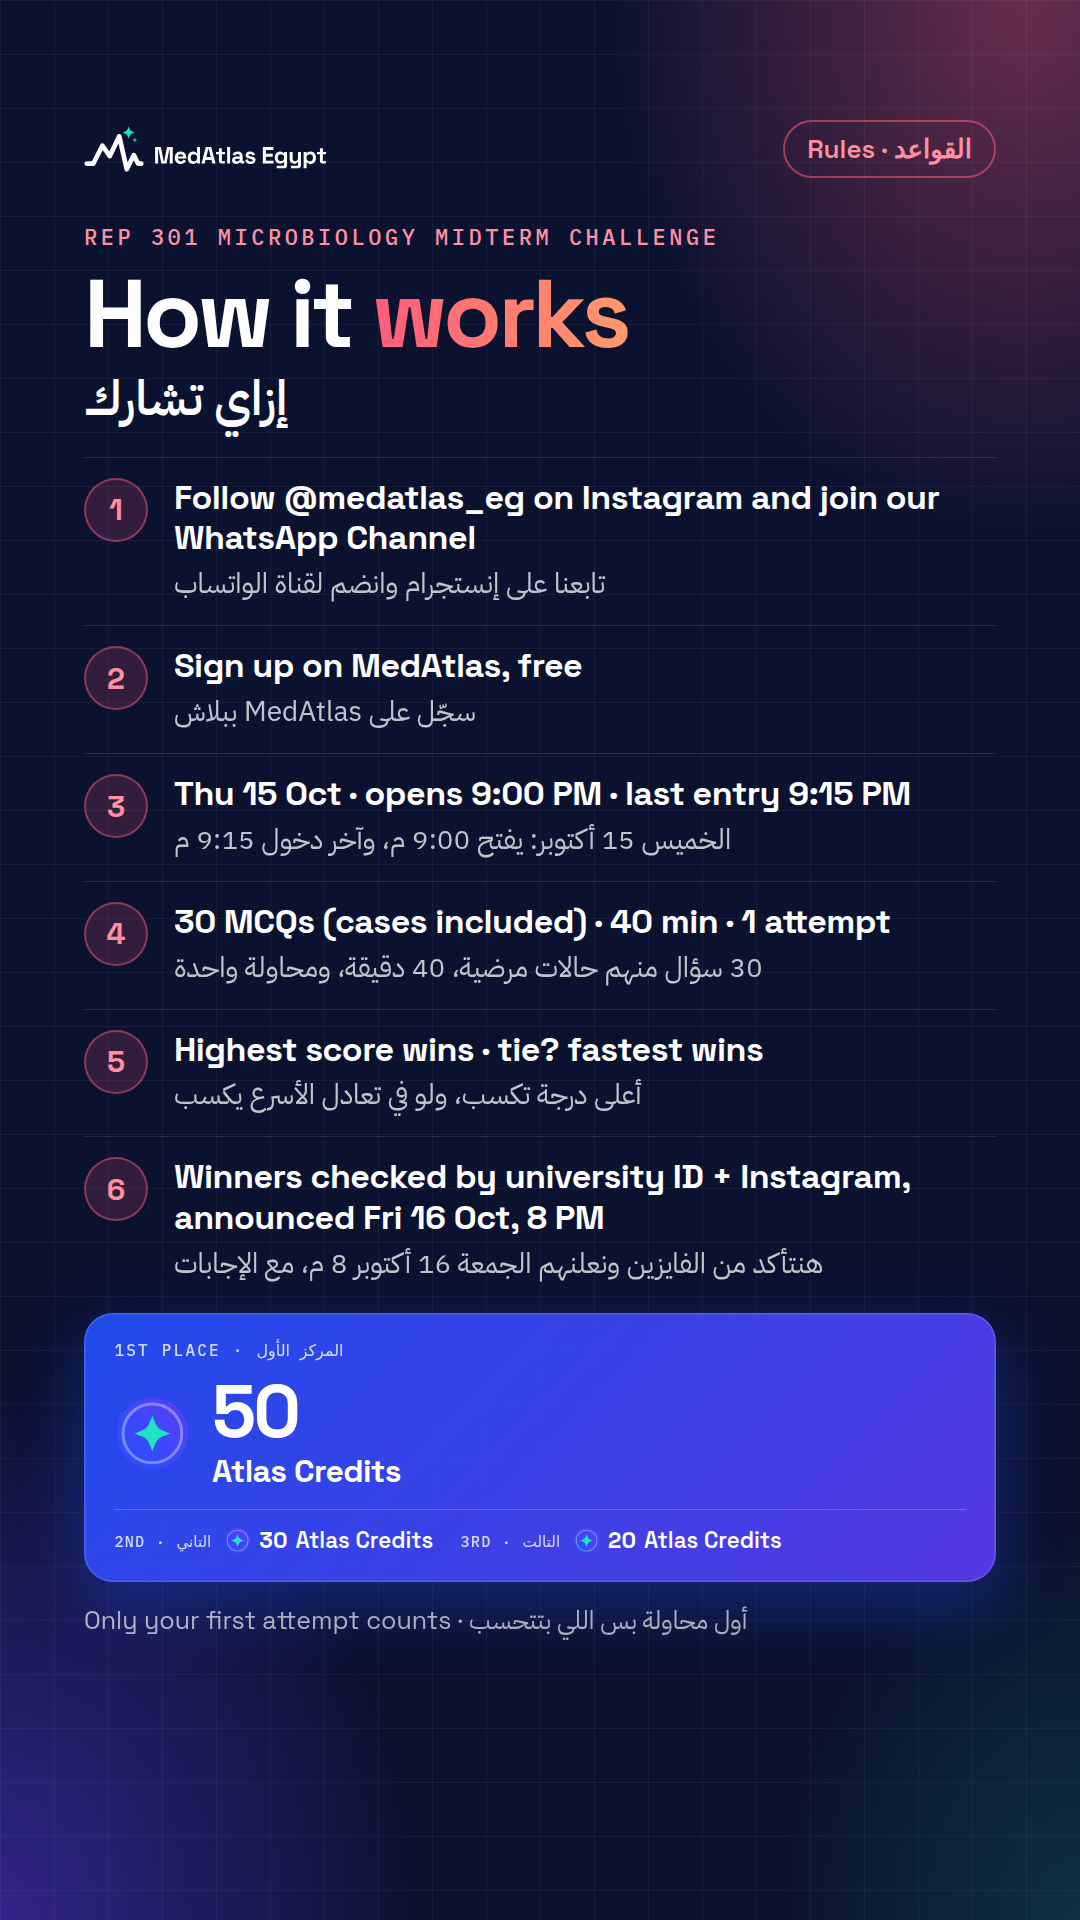
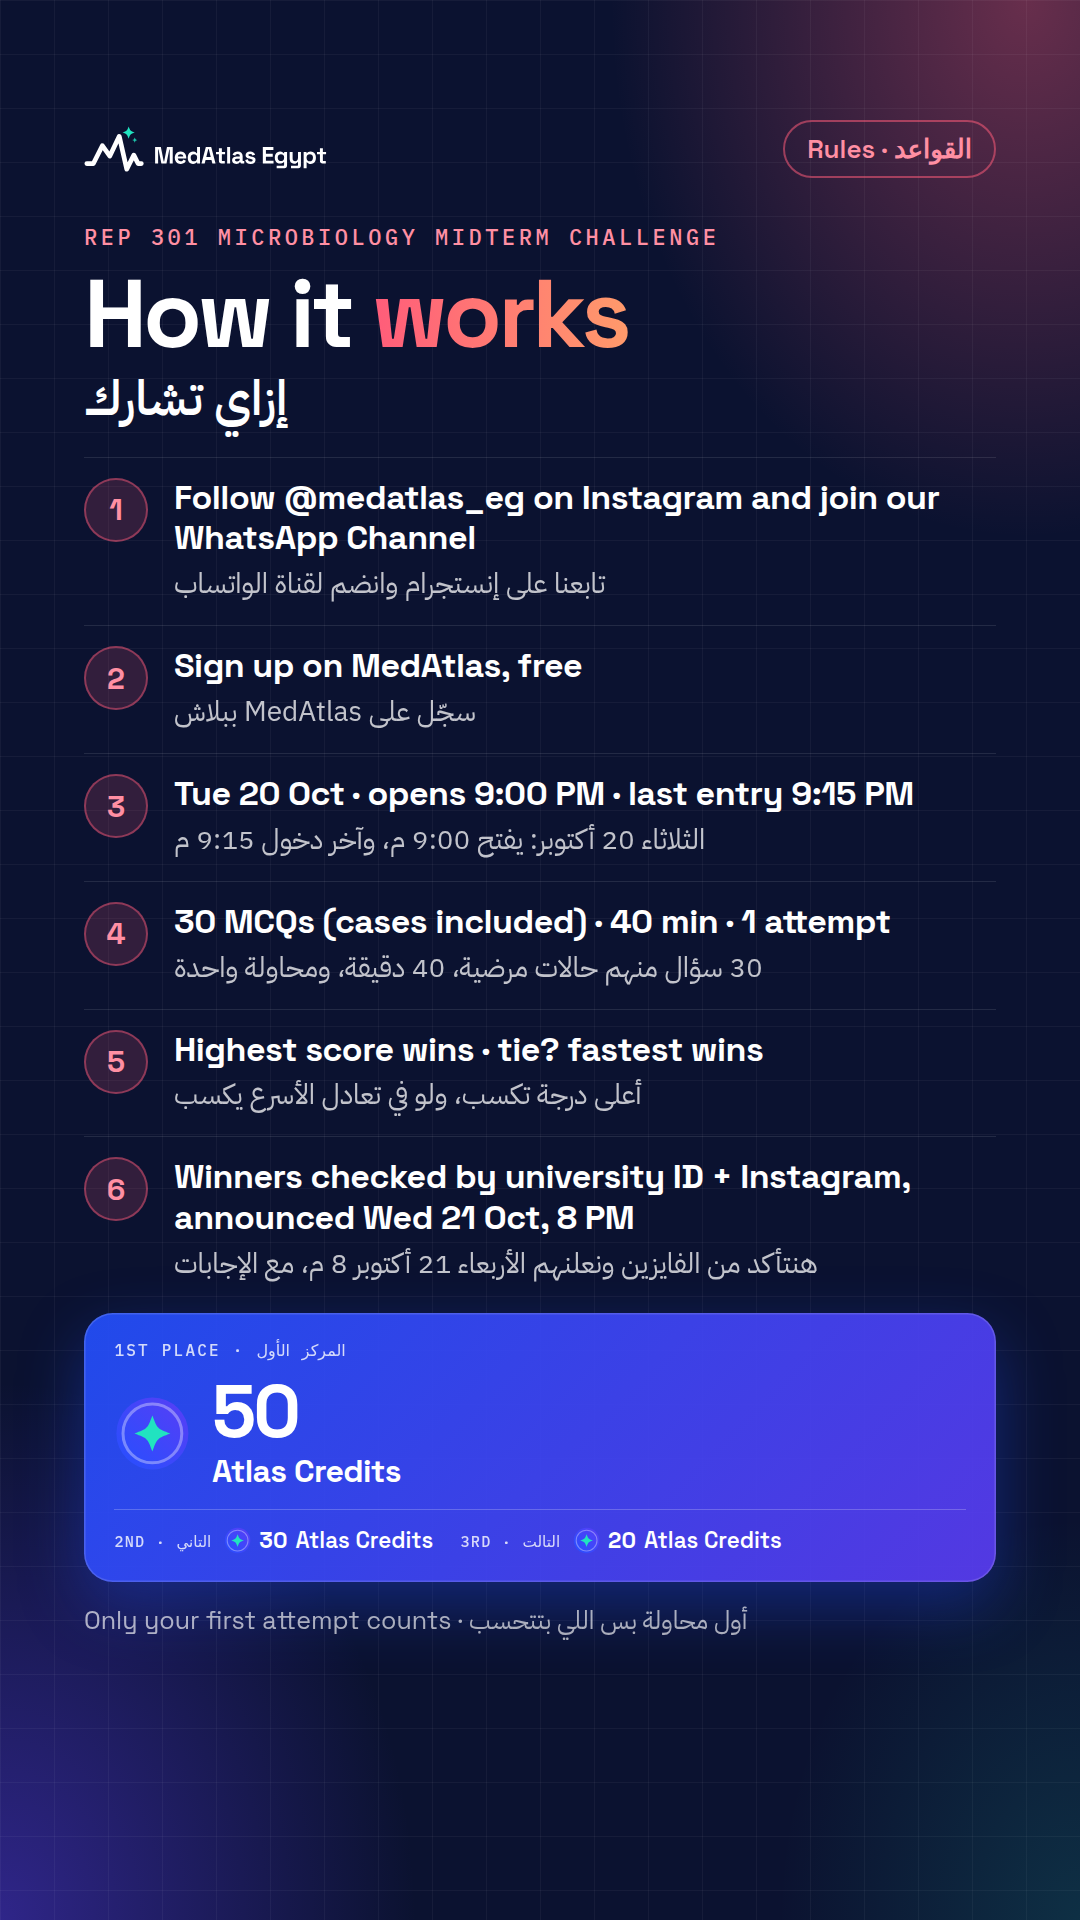
REP challenge designs: Tue 20 Oct, results Wed 21 Oct

Changed region(s): [[0.1833, 0.4062, 0.8556, 0.4375], [0.3361, 0.625, 0.7639, 0.6875]]

diff --git a/_source/rep-challenge/story-comp-rules.html b/_source/rep-challenge/story-comp-rules.html
@@ -3,7 +3,7 @@
   <div style="margin-top:44px"><span class="label">REP 301 Microbiology Midterm Challenge</span></div>
   <div class="h1" style="--h1:96px;margin-top:16px">How it <span class="rep">works</span></div>
   <div class="ar-line" style="margin-top:4px;font-size:48px">إزاي تشارك</div>
-  <div style="margin-top:22px"><div class="rule"><div class="n">1</div><div><div class="en">Follow @medatlas_eg on Instagram and join our WhatsApp Channel</div><div class="arx">تابعنا على إنستجرام وانضم لقناة الواتساب</div></div></div><div class="rule"><div class="n">2</div><div><div class="en">Sign up on MedAtlas, free</div><div class="arx">سجّل على MedAtlas ببلاش</div></div></div><div class="rule"><div class="n">3</div><div><div class="en">Thu 15 Oct · opens 9:00 PM · last entry 9:15 PM</div><div class="arx">الخميس 15 أكتوبر: يفتح 9:00 م، وآخر دخول 9:15 م</div></div></div><div class="rule"><div class="n">4</div><div><div class="en">30 MCQs (cases included) · 40 min · 1 attempt</div><div class="arx">30 سؤال منهم حالات مرضية، 40 دقيقة، ومحاولة واحدة</div></div></div><div class="rule"><div class="n">5</div><div><div class="en">Highest score wins · tie? fastest wins</div><div class="arx">أعلى درجة تكسب، ولو في تعادل الأسرع يكسب</div></div></div><div class="rule"><div class="n">6</div><div><div class="en">Winners checked by university ID + Instagram, announced Fri 16 Oct, 8 PM</div><div class="arx">هنتأكد من الفايزين ونعلنهم الجمعة 16 أكتوبر 8 م، مع الإجابات</div></div></div></div>
+  <div style="margin-top:22px"><div class="rule"><div class="n">1</div><div><div class="en">Follow @medatlas_eg on Instagram and join our WhatsApp Channel</div><div class="arx">تابعنا على إنستجرام وانضم لقناة الواتساب</div></div></div><div class="rule"><div class="n">2</div><div><div class="en">Sign up on MedAtlas, free</div><div class="arx">سجّل على MedAtlas ببلاش</div></div></div><div class="rule"><div class="n">3</div><div><div class="en">Tue 20 Oct · opens 9:00 PM · last entry 9:15 PM</div><div class="arx">الثلاثاء 20 أكتوبر: يفتح 9:00 م، وآخر دخول 9:15 م</div></div></div><div class="rule"><div class="n">4</div><div><div class="en">30 MCQs (cases included) · 40 min · 1 attempt</div><div class="arx">30 سؤال منهم حالات مرضية، 40 دقيقة، ومحاولة واحدة</div></div></div><div class="rule"><div class="n">5</div><div><div class="en">Highest score wins · tie? fastest wins</div><div class="arx">أعلى درجة تكسب، ولو في تعادل الأسرع يكسب</div></div></div><div class="rule"><div class="n">6</div><div><div class="en">Winners checked by university ID + Instagram, announced Wed 21 Oct, 8 PM</div><div class="arx">هنتأكد من الفايزين ونعلنهم الأربعاء 21 أكتوبر 8 م، مع الإجابات</div></div></div></div>
   <div style="margin-top:8px"><div class="prize" style="zoom:0.8">
   <div class="k">1st place · المركز الأول</div>
   <div class="win"><svg width="96" height="96" viewBox="0 0 128 128"><defs><linearGradient id="cg4" x1="0" y1="128" x2="128" y2="0" gradientUnits="userSpaceOnUse"><stop offset="0" stop-color="#2350FF"/><stop offset="1" stop-color="#5B3DF5"/></linearGradient></defs><circle cx="64" cy="64" r="60" fill="url(#cg4)"/><circle cx="64" cy="64" r="49" fill="none" stroke="#fff" stroke-opacity=".35" stroke-width="5"/><path d="M64 34 C72.1 55.9 72.1 55.9 94 64 C72.1 72.1 72.1 72.1 64 94 C55.9 72.1 55.9 72.1 34 64 C55.9 55.9 55.9 55.9 64 34 Z" fill="#21E3C0"/></svg><div><div class="v">50</div><div class="u">Atlas Credits</div></div></div>

diff --git a/_source/rep-challenge/post-comp-rep-challenge.html b/_source/rep-challenge/post-comp-rep-challenge.html
@@ -1,5 +1,5 @@
 <!doctype html><html><head><meta charset="utf-8"><link rel="stylesheet" href="../comp.css"><style>:root{--w:1080px;--h:1350px}.fact{padding:16px 24px}.fact b{font-size:31px}</style></head><body><div class="frame">
-  <div class="top"><img src="../../../logo/final/svg/medatlas-logo-horizontal-reversed.svg" alt=""><span class="chip rep-c">Thu 15 Oct · 9 PM</span></div>
+  <div class="top"><img src="../../../logo/final/svg/medatlas-logo-horizontal-reversed.svg" alt=""><span class="chip rep-c">Tue 20 Oct · 9 PM</span></div>
   <div style="margin-top:44px"><span class="label">New competition · مسابقة جديدة</span></div>
   <div class="h1" style="--h1:100px;margin-top:22px"><span class="sub">Microbiology</span>REP 301<br><span class="rep">Midterm Challenge.</span></div>
   <div class="ar-line" style="margin-top:14px;font-size:52px">تحدّي ميدترم ميكرو REP 301</div>
@@ -10,7 +10,7 @@
   <div class="runners"><div><span class="pl">2nd · التاني</span><svg width="34" height="34" viewBox="0 0 128 128"><defs><linearGradient id="cg2" x1="0" y1="128" x2="128" y2="0" gradientUnits="userSpaceOnUse"><stop offset="0" stop-color="#2350FF"/><stop offset="1" stop-color="#5B3DF5"/></linearGradient></defs><circle cx="64" cy="64" r="60" fill="url(#cg2)"/><circle cx="64" cy="64" r="49" fill="none" stroke="#fff" stroke-opacity=".35" stroke-width="5"/><path d="M64 34 C72.1 55.9 72.1 55.9 94 64 C72.1 72.1 72.1 72.1 64 94 C55.9 72.1 55.9 72.1 34 64 C55.9 55.9 55.9 55.9 64 34 Z" fill="#21E3C0"/></svg><b>30</b> Atlas Credits</div><div><span class="pl">3rd · التالت</span><svg width="34" height="34" viewBox="0 0 128 128"><defs><linearGradient id="cg3" x1="0" y1="128" x2="128" y2="0" gradientUnits="userSpaceOnUse"><stop offset="0" stop-color="#2350FF"/><stop offset="1" stop-color="#5B3DF5"/></linearGradient></defs><circle cx="64" cy="64" r="60" fill="url(#cg3)"/><circle cx="64" cy="64" r="49" fill="none" stroke="#fff" stroke-opacity=".35" stroke-width="5"/><path d="M64 34 C72.1 55.9 72.1 55.9 94 64 C72.1 72.1 72.1 72.1 64 94 C55.9 72.1 55.9 72.1 34 64 C55.9 55.9 55.9 55.9 64 34 Z" fill="#21E3C0"/></svg><b>20</b> Atlas Credits</div></div>
 </div></div>
   <div class="facts" style="margin-top:22px">
-    <div class="fact"><b>Thu 15 Oct · 9 PM</b><span class="ar">الخميس 15 أكتوبر، 9 مساءً</span></div>
+    <div class="fact"><b>Tue 20 Oct · 9 PM</b><span class="ar">الثلاثاء 20 أكتوبر، 9 مساءً</span></div>
     <div class="fact"><b>30 MCQs · 40 min</b><span class="ar">30 سؤال في 40 دقيقة</span></div>
   </div>
   <div class="bottom"><span>@medatlas_eg</span><span>rules in stories · القواعد في الستوري</span></div></div></body></html>

diff --git a/_source/rep-challenge/story-comp-countdown.html b/_source/rep-challenge/story-comp-countdown.html
@@ -1,9 +1,9 @@
 <!doctype html><html><head><meta charset="utf-8"><link rel="stylesheet" href="../comp.css"><style>:root{--w:1080px;--h:1920px}.frame{padding:150px 84px 200px}.h1 .sub{justify-content:center}</style></head><body><div class="frame">
   <div class="top" style="justify-content:center"><img src="../../../logo/final/svg/medatlas-logo-horizontal-reversed.svg" alt=""></div>
-  <div style="margin-top:110px;text-align:center"><span class="label">Thursday 15 Oct · 9:00 PM</span>
+  <div style="margin-top:110px;text-align:center"><span class="label">Tuesday 20 Oct · 9:00 PM</span>
   <div class="h1" style="--h1:118px;margin-top:22px"><span class="sub">Microbiology</span>REP 301<br><span class="rep">Midterm Challenge.</span></div>
   <div class="ar" style="font-weight:700;font-size:56px;margin-top:18px">تحدّي ميدترم ميكرو REP 301</div>
-  <div class="body" style="margin-top:14px;font-size:30px">30 MCQs · 40 min · <span class="ar">الخميس 9 مساءً</span></div></div>
+  <div class="body" style="margin-top:14px;font-size:30px">30 MCQs · 40 min · <span class="ar">الثلاثاء 9 مساءً</span></div></div>
   <div style="margin:48px auto 0"><div class="prize" style="zoom:0.95">
   <div class="k">1st place · المركز الأول</div>
   <div class="win"><svg width="96" height="96" viewBox="0 0 128 128"><defs><linearGradient id="cg7" x1="0" y1="128" x2="128" y2="0" gradientUnits="userSpaceOnUse"><stop offset="0" stop-color="#2350FF"/><stop offset="1" stop-color="#5B3DF5"/></linearGradient></defs><circle cx="64" cy="64" r="60" fill="url(#cg7)"/><circle cx="64" cy="64" r="49" fill="none" stroke="#fff" stroke-opacity=".35" stroke-width="5"/><path d="M64 34 C72.1 55.9 72.1 55.9 94 64 C72.1 72.1 72.1 72.1 64 94 C55.9 72.1 55.9 72.1 34 64 C55.9 55.9 55.9 55.9 64 34 Z" fill="#21E3C0"/></svg><div><div class="v">50</div><div class="u">Atlas Credits</div></div></div>

diff --git a/_source/rep-challenge/comp_build.py b/_source/rep-challenge/comp_build.py
@@ -35,14 +35,14 @@ TITLE = '<span class="sub">Microbiology</span>REP 301<br><span class="rep">Midte
 AR_TITLE = 'تحدّي ميدترم ميكرو REP 301'
 
 page("post-comp-rep-challenge", 1080, 1350, f'''
-  <div class="top">{LOGO}<span class="chip rep-c">Thu 15 Oct · 9 PM</span></div>
+  <div class="top">{LOGO}<span class="chip rep-c">Tue 20 Oct · 9 PM</span></div>
   <div style="margin-top:44px"><span class="label">New competition · مسابقة جديدة</span></div>
   <div class="h1" style="--h1:100px;margin-top:22px">{TITLE}</div>
   <div class="ar-line" style="margin-top:14px;font-size:52px">{AR_TITLE}</div>
   <div class="body" style="margin-top:10px;font-size:31px">30 MCQs (cases included) on the 2 REP lectures.</div>
   <div style="margin-top:34px">{prize(.95)}</div>
   <div class="facts" style="margin-top:22px">
-    <div class="fact"><b>Thu 15 Oct · 9 PM</b><span class="ar">الخميس 15 أكتوبر، 9 مساءً</span></div>
+    <div class="fact"><b>Tue 20 Oct · 9 PM</b><span class="ar">الثلاثاء 20 أكتوبر، 9 مساءً</span></div>
     <div class="fact"><b>30 MCQs · 40 min</b><span class="ar">30 سؤال في 40 دقيقة</span></div>
   </div>
   <div class="bottom"><span>@medatlas_eg</span><span>rules in stories · القواعد في الستوري</span></div>''',
@@ -51,10 +51,10 @@ page("post-comp-rep-challenge", 1080, 1350, f'''
 rules = [
     ("Follow @medatlas_eg on Instagram and join our WhatsApp Channel", "تابعنا على إنستجرام وانضم لقناة الواتساب"),
     ("Sign up on MedAtlas, free", "سجّل على MedAtlas ببلاش"),
-    ("Thu 15 Oct · opens 9:00 PM · last entry 9:15 PM", "الخميس 15 أكتوبر: يفتح 9:00 م، وآخر دخول 9:15 م"),
+    ("Tue 20 Oct · opens 9:00 PM · last entry 9:15 PM", "الثلاثاء 20 أكتوبر: يفتح 9:00 م، وآخر دخول 9:15 م"),
     ("30 MCQs (cases included) · 40 min · 1 attempt", "30 سؤال منهم حالات مرضية، 40 دقيقة، ومحاولة واحدة"),
     ("Highest score wins · tie? fastest wins", "أعلى درجة تكسب، ولو في تعادل الأسرع يكسب"),
-    ("Winners checked by university ID + Instagram, announced Fri 16 Oct, 8 PM", "هنتأكد من الفايزين ونعلنهم الجمعة 16 أكتوبر 8 م، مع الإجابات"),
+    ("Winners checked by university ID + Instagram, announced Wed 21 Oct, 8 PM", "هنتأكد من الفايزين ونعلنهم الأربعاء 21 أكتوبر 8 م، مع الإجابات"),
 ]
 rl = "".join(f'<div class="rule"><div class="n">{i}</div><div><div class="en">{en}</div><div class="arx">{ar}</div></div></div>'
              for i, (en, ar) in enumerate(rules, 1))
@@ -70,10 +70,10 @@ page("story-comp-rules", 1080, 1920, f'''
 
 page("story-comp-countdown", 1080, 1920, f'''
   <div class="top" style="justify-content:center">{LOGO}</div>
-  <div style="margin-top:110px;text-align:center"><span class="label">Thursday 15 Oct · 9:00 PM</span>
+  <div style="margin-top:110px;text-align:center"><span class="label">Tuesday 20 Oct · 9:00 PM</span>
   <div class="h1" style="--h1:118px;margin-top:22px">{TITLE}</div>
   <div class="ar" style="font-weight:700;font-size:56px;margin-top:18px">{AR_TITLE}</div>
-  <div class="body" style="margin-top:14px;font-size:30px">30 MCQs · 40 min · <span class="ar">الخميس 9 مساءً</span></div></div>
+  <div class="body" style="margin-top:14px;font-size:30px">30 MCQs · 40 min · <span class="ar">الثلاثاء 9 مساءً</span></div></div>
   <div style="margin:48px auto 0">{prize(.95)}</div>
   <div style="flex:1"></div>
   <div class="body" style="text-align:center;font-size:28px;opacity:.7">↓ set a reminder · <span class="ar">فعّل التذكير</span></div>
